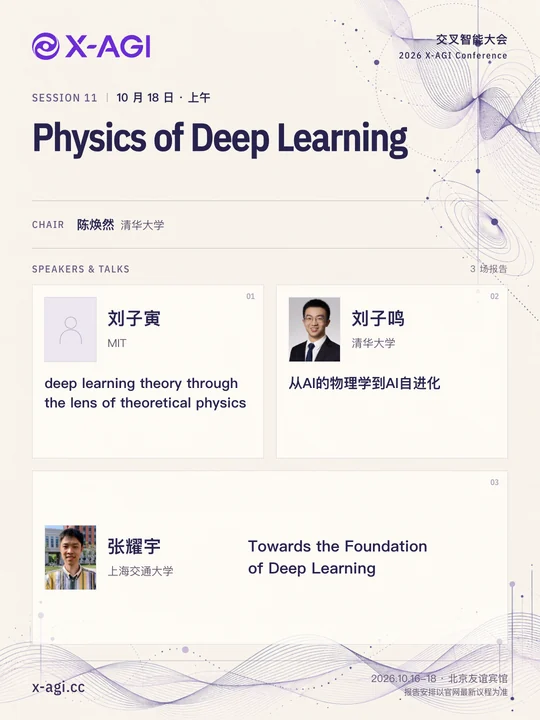
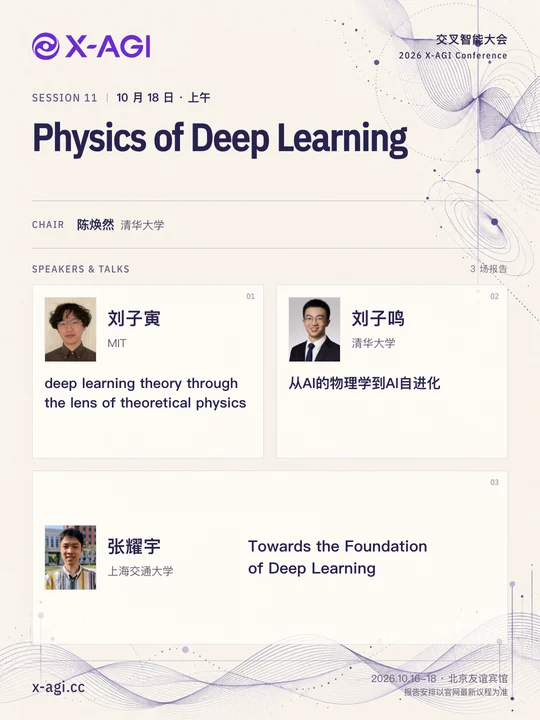
Add Liu Ziyin portrait and correct BReD affiliation (#74)

Changed region(s): [[0.0593, 0.3972, 0.1778, 0.5194]]

diff --git a/src/data/conference2026-people.confirmed.ts b/src/data/conference2026-people.confirmed.ts
@@ -11,7 +11,7 @@ export const conference2026ConfirmedPeople: readonly Conference2026PersonSourceR
     affiliation: 'MIT',
     bio: '刘子寅现任麻省理工学院（MIT）研究科学家，即将加入清华大学人工智能学院担任助理教授。他于东京大学获得物理学博士学位。刘子寅的研究主要致力于探索人工神经网络学习机制背后的科学原理与数学规律。此外，他也对理论物理和计算神经科学感兴趣。',
     abstract: '人工智能已经成为一门经验科学。我们正在这些 AI 模型中发现越来越多有趣的现象，但现代人工智能背后的组织性原理至今仍不清晰。在这场报告中，我将介绍一个我称之为“对称性\u2014不可逆性框架”（Symmetry-Irreversibility Framework, SIF）的理论框架。该框架利用了“对称性”和“不可逆性”这两个在一般科学、尤其是物理学中极为核心的概念和工具，来分析并理解深度学习中的各种现象。我将讨论一些有趣的现象\u2014\u2014例如隐式稀疏性（implicit sparsity）、坍缩（collapse）、稳定性边缘（edge of stability），以及近年来提出的“柏拉图式表征假说”（Platonic representation hypothesis）\u2014\u2014如何可能是模型中隐藏的对称性以及训练动力学不可逆性的结果。',
-    hasSubmittedPortrait: false,
+    hasSubmittedPortrait: true,
     sourceOrder: -1,
   },
   {
@@ -43,9 +43,10 @@ export const conference2026ConfirmedBios: ReadonlyMap<string, string> = new Map(
   ['qiu-zihan', '邱子涵本科毕业于清华大学姚班，现就职于 Qwen 预训练团队，专注于大模型架构与训练策略研究，基于模型机制提高训练稳定性和性能上限。已发表十余篇论文，其中一作论文荣获 NeurIPS 2025 最佳论文奖和 NAACL 2024 杰出论文奖。作为核心成员参与 Qwen2.5、Qwen3、Qwen3-Next、Qwen3.5、Qwen3.8-Flash-Next 等系列模型的研发，Google Scholar 引用量逾 2 万次。'],
 ]);
 
-// Portraits supplied directly by the organizer on 2026-09-19 and 2026-09-29.
+// Portraits supplied directly by the organizer on 2026-09-19, 2026-09-29 and 2026-10-01.
 // Hu Tianyang's runtime image now uses his September 29 Speaker resubmission.
 export const conference2026ConfirmedPortraits: ReadonlyMap<string, string> = new Map([
+  ['liu-ziyin', '/2026/people/liu-ziyin-portrait.webp'],
   ['hu-tianyang', '/2026/people/hu-tianyang-portrait.webp'],
   ['chen-siming', '/2026/people/chen-siming-portrait.webp'],
   ['zhou-mo', '/2026/people/zhou-mo-portrait.webp'],

diff --git a/src/data/poster-research.generated.ts b/src/data/poster-research.generated.ts
@@ -10,7 +10,7 @@ export type PosterResearchPaper = {
 };
 
 export const posterResearchSource = {
[2 lines of base64/hex data omitted]
   "status": "registration",
   "papers": [
     {
@@ -457,7 +457,7 @@ export const posterResearchSource = {
       "id": "poster-25c873da8df2",
       "title": "BReD: Block Replay Dithering for Stable Low-Bit EMA Optimizer States",
       "applicantName": "占贺深",
-      "affiliation": "香港中文大学（深圳）/ByteDance",
+      "affiliation": "香港中文大学（深圳）",
       "venue": "NeurIPS",
       "href": "https://openreview.net/forum?id=gnKli42BZO"
     },

diff --git a/src/data/conference2026-people.test.ts b/src/data/conference2026-people.test.ts
@@ -70,7 +70,7 @@ describe('2026 public Chair and Speaker profiles', () => {
     const person = conference2026PersonForName('田润泽');
     assert.equal(person?.portraitStatus, 'missing');
     assert.equal(person?.portraitSrc, undefined);
-    assert.equal(conference2026People.filter((candidate) => !candidate.portraitSrc).length, 5);
+    assert.equal(conference2026People.filter((candidate) => !candidate.portraitSrc).length, 4);
     for (const name of ['谢天', '祝武']) {
       const candidate = conference2026PersonForName(name);
       assert.equal(candidate?.portraitStatus, 'missing');

diff --git a/src/data/portrait-framing.test.ts b/src/data/portrait-framing.test.ts
@@ -9,7 +9,7 @@ const nonHumanPortraits = new Set(['hu-yiwen', 'chen-huanran']);
 describe('reviewed portrait framing', () => {
   it('frames every human portrait without stretching the source aspect ratio', async () => {
     const people = conference2026People.filter((person) => person.portraitSrc && !nonHumanPortraits.has(person.id));
-    assert.equal(people.length, 51);
+    assert.equal(people.length, 52);
     for (const person of people) {
       const style = portraitStyle(person.id);
       assert.equal(style.position, 'absolute', person.id);

diff --git a/src/data/home-speakers.test.ts b/src/data/home-speakers.test.ts
@@ -16,7 +16,7 @@ describe('homepage speaker lineup', () => {
     for (const speaker of homeSpeakers) {
       assert.equal(speaker.portraitSrc, conference2026PersonForName(speaker.name)?.portraitSrc);
     }
-    assert.equal(homeSpeakers.filter((speaker) => !speaker.portraitSrc).length, 9);
+    assert.equal(homeSpeakers.filter((speaker) => !speaker.portraitSrc).length, 8);
   });
 
   it('places missing portraits last, preserves order within both groups and keeps dual-role speaker links', () => {

diff --git a/src/data/portrait-framing.ts b/src/data/portrait-framing.ts
@@ -9,6 +9,7 @@ type PortraitCrop = {
   background?: string;
 };
 const circularPortraitCrops: Readonly<Record<string, PortraitCrop>> = {
+  'liu-ziyin': { width: 256, height: 318, x: 0, y: 24, size: 256 },
   'liu-jun': { width: 418, height: 520, x: 0, y: 38, size: 418 },
   'sun-maosong': { width: 302, height: 384, x: 0, y: 33, size: 302 },
   'feng-jianfeng': { width: 1080, height: 1616, x: 150, y: 110, size: 687 },
